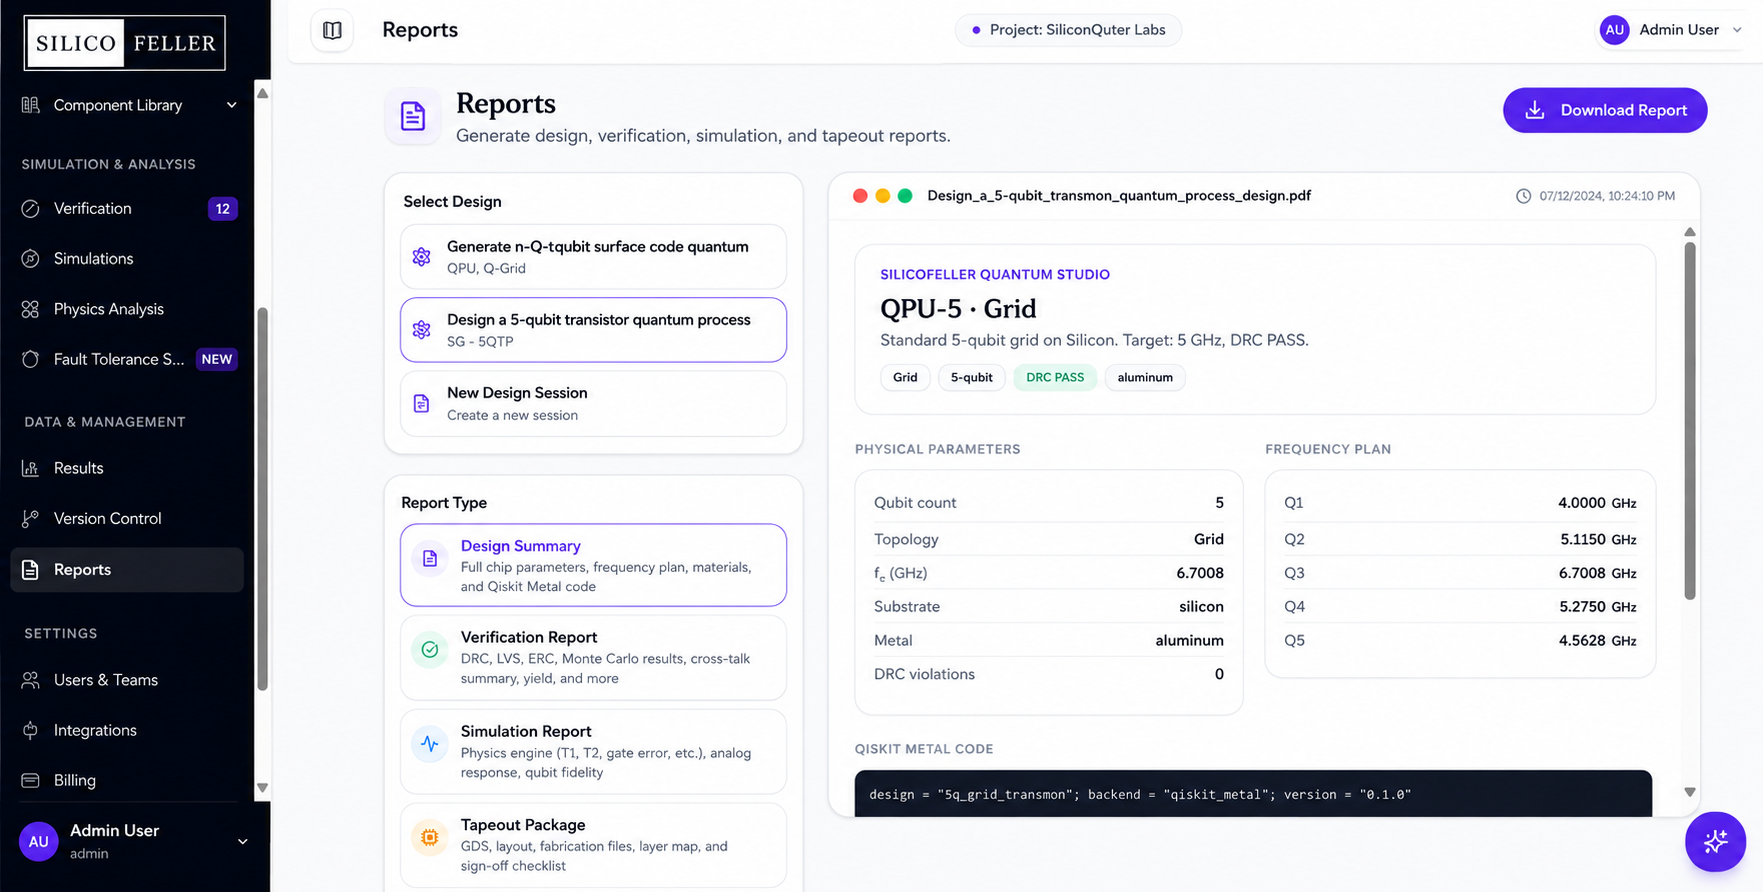
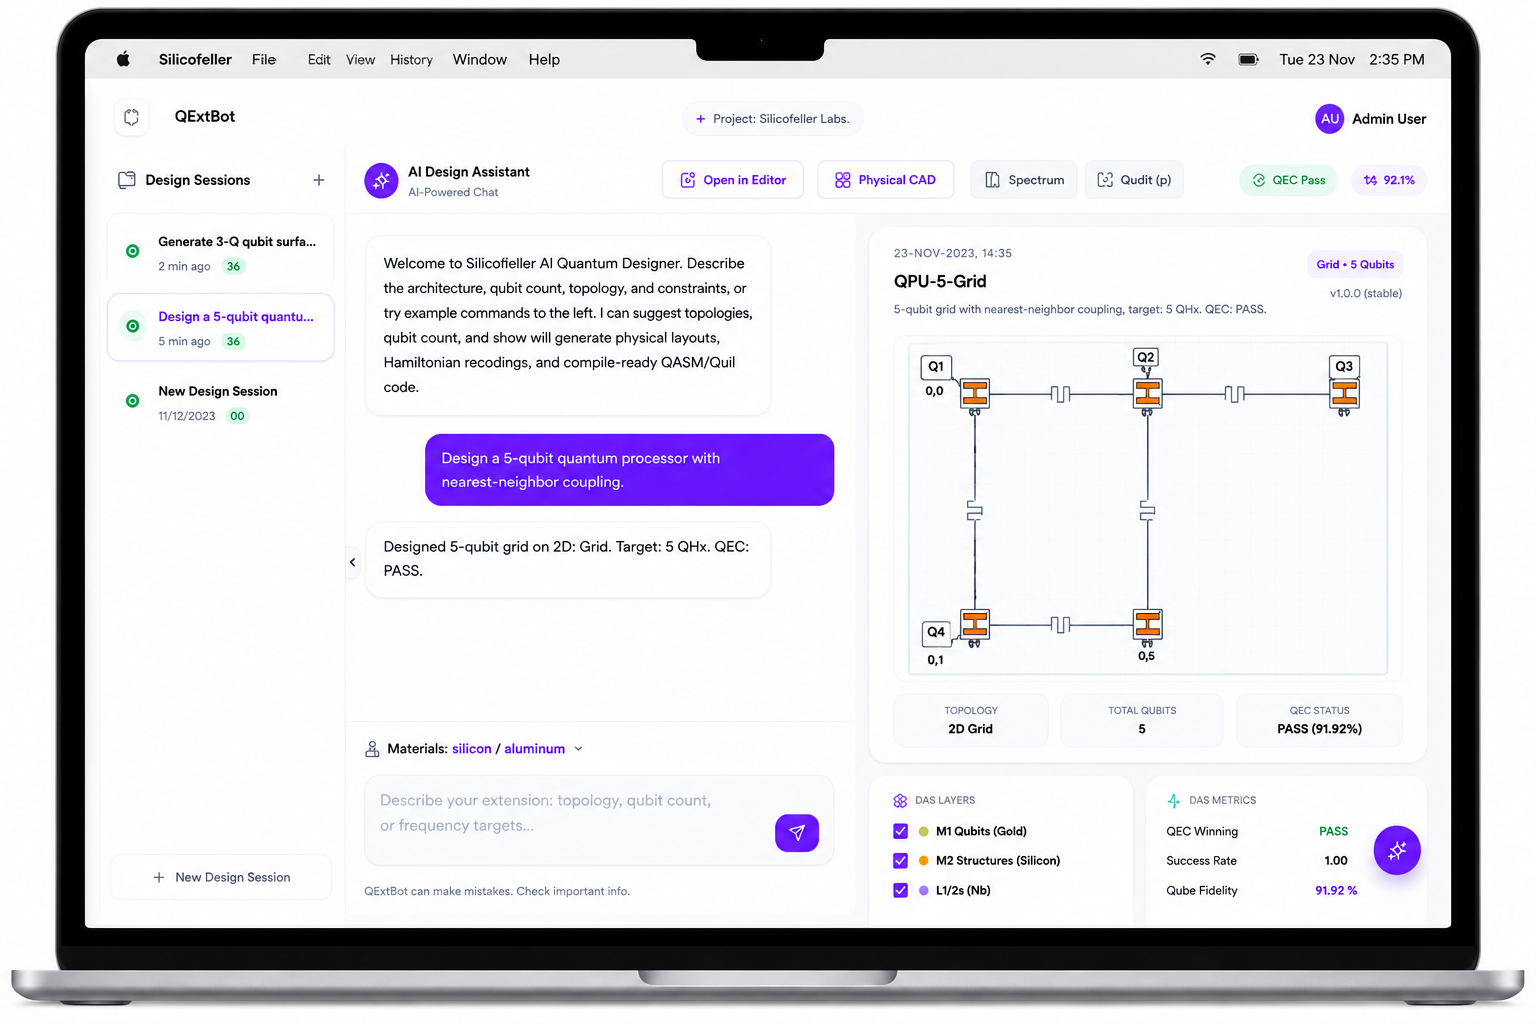
changes in landing page

diff --git a/frontend/src/routes/index.tsx b/frontend/src/routes/index.tsx
@@ -29,13 +29,13 @@ import { useAuth, ROLE_LABEL } from "@/lib/auth/auth-context";
 export const Route = createFileRoute("/")({
   head: () => ({
     meta: [
-      { title: "SilicoFeller — AI Quantum Chip Design" },
+      { title: "Silicofeller — AI Quantum Chip Design" },
       {
         name: "description",
         content:
-          "SilicoFeller turns natural-language prompts into production-ready quantum chip architectures. Describe. Generate. Fabricate.",
+          "Silicofeller turns natural-language prompts into production-ready quantum chip architectures. Describe. Generate. Fabricate.",
       },
-      { property: "og:title", content: "SilicoFeller — AI Quantum Chip Design" },
+      { property: "og:title", content: "Silicofeller — AI Quantum Chip Design" },
       {
         property: "og:description",
         content: "AI-powered quantum chip design. From prompt to fabricated qubit array.",
@@ -115,7 +115,7 @@ function LandingPage() {
               </motion.span>
             </h1>
             <p className="mt-6 max-w-xl text-[1.0625rem] leading-relaxed text-foreground/70">
-              SilicoFeller transforms natural-language prompts into production-ready quantum chip
+              Silicofeller transforms natural-language prompts into production-ready quantum chip
               architectures — transmon arrays, error-correction layouts and superconducting qubit
               topologies, generated in seconds.
             </p>
@@ -125,7 +125,7 @@ function LandingPage() {
                 asChild
                 className="h-12 rounded-full bg-foreground px-6 text-sm font-semibold text-background hover:bg-foreground/90"
               >
-                <Link to={user ? "/dashboard" : "/designer"}>
+                <Link to="/designer">
                   Start designing <ArrowRight className="ml-1.5 h-4 w-4" />
                 </Link>
               </Button>
@@ -163,13 +163,13 @@ function LandingPage() {
       <Section
         id="about"
         eyebrow="About us"
-        title="SilicoFeller — AI for the quantum era."
+        title="Silicofeller — AI for the quantum era."
         tone="paper"
       >
         <div className="mt-2 grid grid-cols-1 gap-10 lg:grid-cols-[1.1fr_1fr] lg:items-center">
           <div>
             <p className="text-[0.9375rem] leading-relaxed text-muted-foreground">
-              SilicoFeller is an AI-powered quantum chip design platform. You describe the quantum
+              Silicofeller is an AI-powered quantum chip design platform. You describe the quantum
               chip you need — in plain language — and our platform turns that prompt into a
               complete, fabrication-ready design. No manual layout work, no low-level HDL, just your
               intent and an output you can build.
@@ -182,28 +182,52 @@ function LandingPage() {
               underlying design graph.
             </p>
             <p className="mt-4 text-[0.9375rem] leading-relaxed text-muted-foreground">
-              Once your design is ready, SilicoFeller automatically generates{" "}
+              Once your design is ready, Silicofeller automatically generates{" "}
               <span className="font-medium text-foreground">Qiskit Metal Python code</span> — the
               industry-standard framework for quantum chip design — so your layout is immediately
               ready for simulation, DRC verification, and tapeout submission.
             </p>
           </div>
           <div className="flex items-center justify-center">
-            <div
-              className="relative flex h-72 w-full max-w-md items-center justify-center rounded-3xl border border-border bg-white/80 p-10 backdrop-blur"
-              style={{ boxShadow: "var(--shadow-card)" }}
+            <motion.div
+              initial={{ opacity: 0, scale: 0.9, rotateX: -15 }}
+              whileInView={{ opacity: 1, scale: 1, rotateX: 0 }}
+              viewport={{ once: true, margin: "-80px" }}
+              transition={{ duration: 0.9, ease: [0.22, 1, 0.36, 1] }}
+              style={{ perspective: 1200, transformStyle: "preserve-3d" }}
+              className="relative flex w-full max-w-lg items-center justify-center"
             >
-              <img
-                src="/logo-removebg-preview.png"
-                alt="SilicoFeller logo"
-                className="max-h-48 w-auto object-contain"
+              {/* soft glow halo under the chip */}
+              <div
+                aria-hidden
+                className="pointer-events-none absolute inset-x-8 bottom-6 h-24 rounded-[100%] blur-2xl"
+                style={{
+                  background:
+                    "radial-gradient(closest-side, rgba(59,130,246,0.45), rgba(59,130,246,0) 70%)",
+                }}
               />
-              <img
-                src="/nvidia-inception-program-badge-rgb-1c-blk-for-screen.png"
-                alt="NVIDIA Inception Program member"
-                className="absolute bottom-4 right-4 h-10 w-auto opacity-80"
+              <motion.img
+                src="/quantum-chip-3d.png"
+                alt="Silicofeller quantum chip"
+                width={1280}
+                height={1024}
+                loading="lazy"
+                className="relative z-10 w-full max-w-lg select-none drop-shadow-[0_30px_60px_rgba(15,23,42,0.35)]"
+                style={{ transformStyle: "preserve-3d" }}
+                animate={{
+                  y: [0, -10, 0],
+                  rotateZ: [-1.2, 1.2, -1.2],
+                  rotateY: [-3, 3, -3],
+                }}
+                transition={{
+                  duration: 7,
+                  repeat: Infinity,
+                  ease: "easeInOut",
+                }}
+                whileHover={{ scale: 1.04, rotateY: 6, rotateX: -4 }}
+                draggable={false}
               />
-            </div>
+            </motion.div>
           </div>
         </div>
 
@@ -313,7 +337,7 @@ function LandingPage() {
       <Section
         id="blog"
         eyebrow="Research & insights"
-        title="From the SilicoFeller blog."
+        title="From the Silicofeller blog."
         tone="elevated"
       >
         <div className="mt-10 grid grid-cols-1 gap-5 sm:grid-cols-2 lg:grid-cols-4">
@@ -407,7 +431,7 @@ function LandingPage() {
           <FooterCol title="Legal" links={["Privacy Policy", "Terms of Service", "Security"]} />
         </div>
         <div className="mx-auto mt-8 flex max-w-6xl flex-col items-center justify-between gap-2 border-t border-white/10 pt-6 text-xs text-white/50 sm:flex-row">
-          <p>© {new Date().getFullYear()} SilicoFeller, Inc. All rights reserved.</p>
+          <p>© {new Date().getFullYear()} Silicofeller, Inc. All rights reserved.</p>
           {user && (
             <p>
               Signed in as <span className="font-medium text-white">{user.name}</span> ·{" "}
@@ -478,7 +502,7 @@ function SiteNav({
                 asChild
                 className="h-9 rounded-full bg-foreground px-4 text-sm font-semibold text-background hover:bg-foreground/90"
               >
-                <Link to="/dashboard">Open designer</Link>
+                <Link to="/designer">Open designer</Link>
               </Button>
             </>
           ) : (